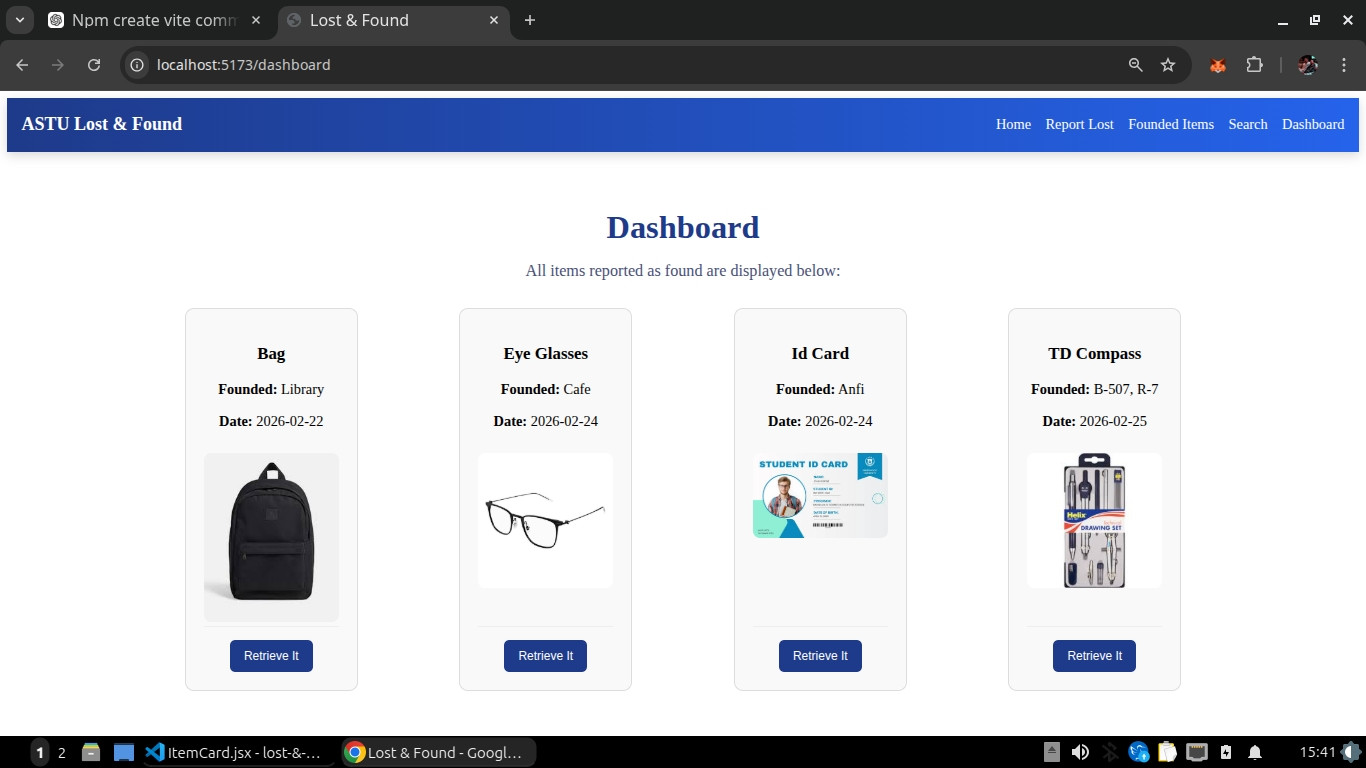
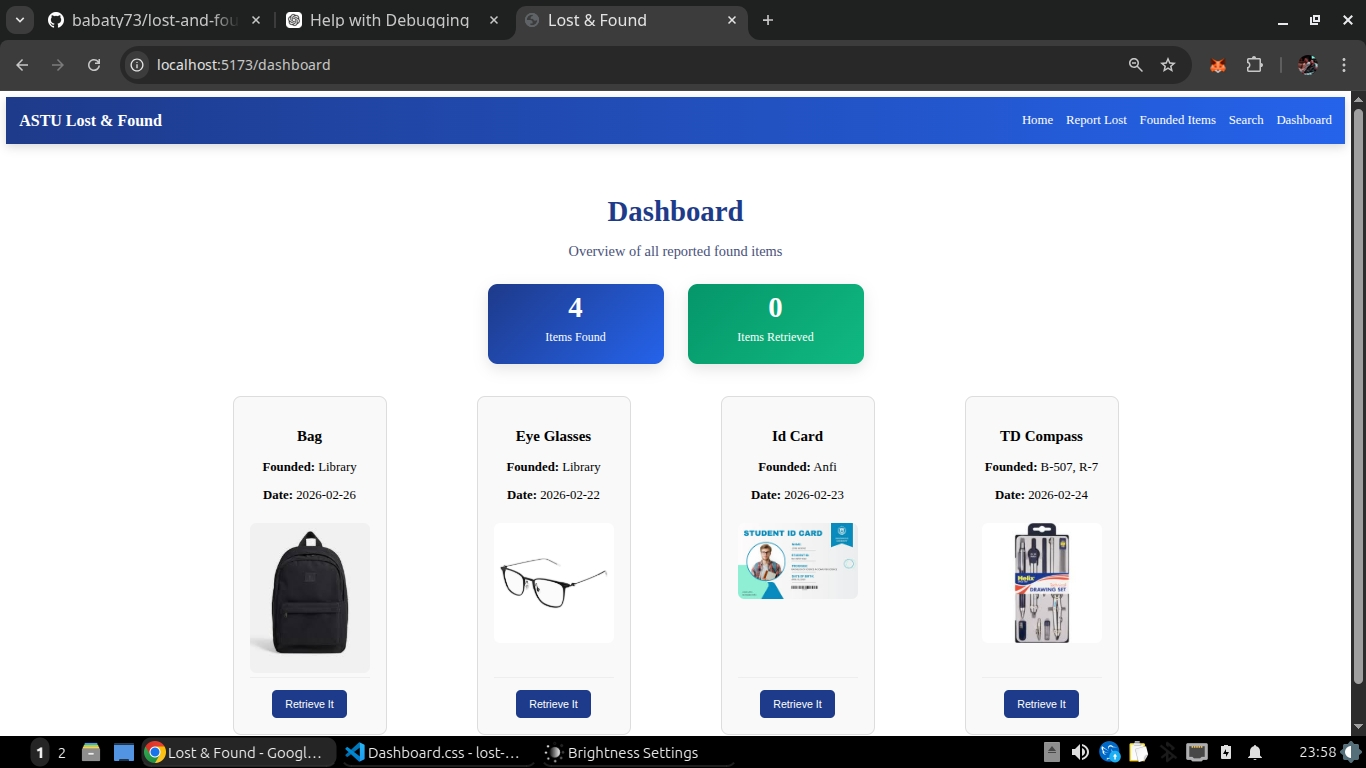
Enhanced Dashboard: added statics overview (found & retrieved items) with improved UI

diff --git a/src/pages/Dashboard.css b/src/pages/Dashboard.css
@@ -22,6 +22,49 @@
   color: #777;
 }
 
+.stats-container {
+  display: flex;
+  justify-content: center;
+  gap: 30px;
+  margin-bottom: 40px;
+  flex-wrap: wrap;
+}
+
+.stat-box {
+  width: 220px;
+  height:100px;
+  border-radius: 12px;
+  display: flex;
+  flex-direction: column;
+  justify-content: center;
+  align-items: center;
+  color: white;
+  box-shadow: 0 6px 18px rgba(0, 0, 0, 0.1);
+  transition: transform 0.3s ease;
+}
+
+.stat-box:hover {
+  transform: translateY(-5px);
+}
+
+.stat-box h2 {
+  font-size: 36px;
+  margin: 0;
+}
+
+.stat-box p {
+  margin-top: 8px;
+  font-size: 15px;
+}
+
+.found-box {
+  background: linear-gradient(135deg, #1e3a8a, #2563eb);
+}
+
+.retrieved-box {
+  background: linear-gradient(135deg, #059669, #10b981);
+}
+
 .cards-container {
   display: grid;
   grid-template-columns: repeat(auto-fill, minmax(250px, 1fr));
@@ -29,7 +72,6 @@
   justify-items: center;
 }
 
-/* Optional: Add hover effect for each card */
 .cards-container > div:hover {
   transform: translateY(-5px);
   transition: 0.3s;

diff --git a/src/pages/Dashboard.jsx b/src/pages/Dashboard.jsx
@@ -2,13 +2,30 @@ import ItemCard from "../components/ItemCard";
 import "./Dashboard.css";
 
 function Dashboard({ foundItems }) {
+  const totalFound = foundItems.length;
+  const retrievedCount = 0;
+
   return (
     <div className="dashboard-container">
       <h1>Dashboard</h1>
       <p className="dashboard-subtitle">
-        All items reported as found are displayed below:
+        Overview of all reported found items
       </p>
 
+      {/*  NEW STATS SECTION */}
+      <div className="stats-container">
+        <div className="stat-box found-box">
+          <h2>{totalFound}</h2>
+          <p>Items Found</p>
+        </div>
+
+        <div className="stat-box retrieved-box">
+          <h2>{retrievedCount}</h2>
+          <p>Items Retrieved</p>
+        </div>
+      </div>
+
+      {/*  EXISTING ITEMS DISPLAY */}
       {foundItems.length === 0 ? (
         <p className="no-items">No found items reported yet.</p>
       ) : (

diff --git a/src/components/ItemCard.css b/src/components/ItemCard.css
@@ -18,7 +18,7 @@
 }
 
 .item-actions {
-  margin-top: auto;  /* 🔥 THIS pushes button to bottom */
+  margin-top: auto; 
   display: flex;
   justify-content: center;
   padding-top: 15px;
